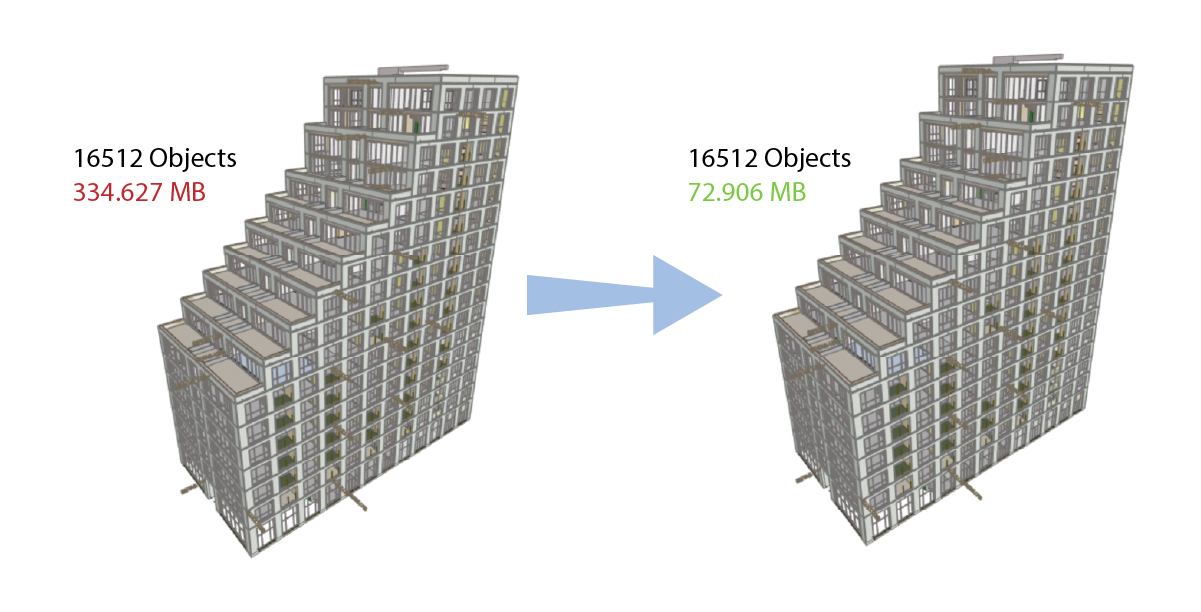
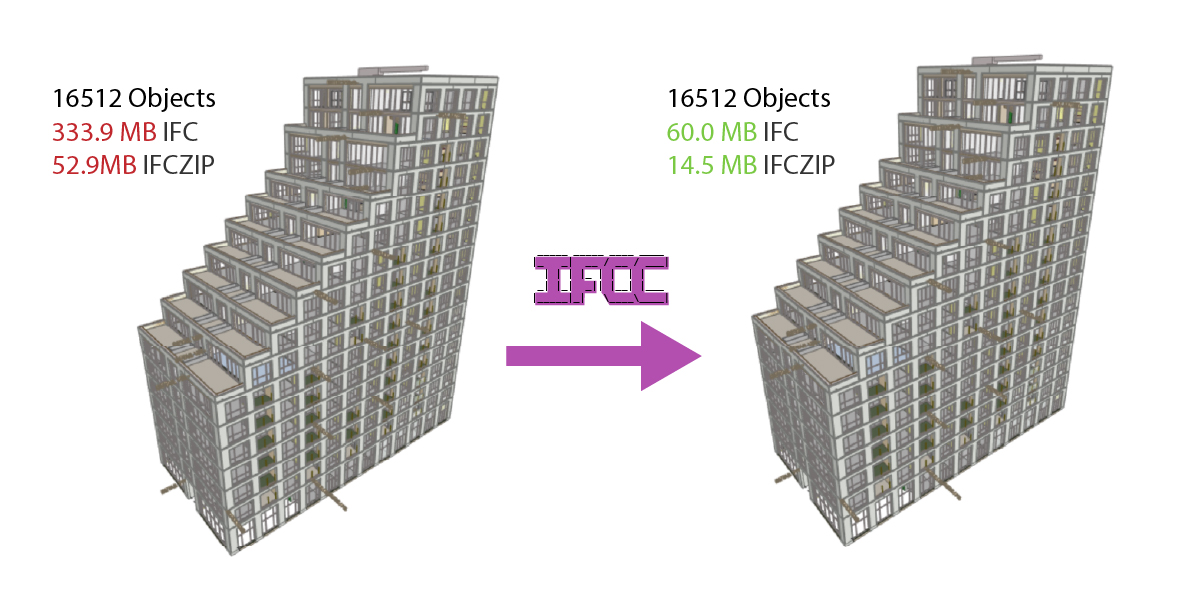
Added IFCZIP output support

Changed region(s): [[0.0308, 0.0908, 0.6162, 0.9378], [0.5545, 0.0908, 0.955, 0.9076], [0.5545, 0.1513, 0.7086, 0.1815]]

diff --git a/IFCC.cpp b/IFCC.cpp
@@ -9,6 +9,12 @@
 #include <unordered_map>
 #include <map>
 #include <string>
+#include <vector>
+
+#include "mz.h"
+#include "mz_strm.h"
+#include "mz_strm_os.h"
+#include "mz_zip.h"
 
 std::vector<std::string> tokenizeString(const std::string& theString, const std::string& delimiters);
 
@@ -357,7 +363,6 @@ void collapseClasses(IfcFile& theFile, int iteration = 1)
 	return;
 }
 
-
 bool recalculateId(IfcFile& theFile, bool restructure)
 {
 	std::cout << "\n[INFO] recalcualating Ids\n";
@@ -425,14 +430,26 @@ bool recalculateId(IfcFile& theFile, bool restructure)
 
 }
 
-bool isValidIfcFile(const std::filesystem::path& filePath)
+bool isValidIfcFile(const std::filesystem::path& filePath, bool isOutputPath = false)
 {
-	if (!std::filesystem::exists(filePath)) { return false; } 
+	if (!isOutputPath)
+	{
+		if (!std::filesystem::exists(filePath)) { return false; }
+	}
 
 	std::string pathExtension = filePath.extension().string();
 	std::transform(pathExtension.begin(), pathExtension.end(), pathExtension.begin(), ::toupper);
-	if (pathExtension != ".IFC") { return false; }
-	return true;
+
+	if (isOutputPath)
+	{
+		if (pathExtension == ".IFCZIP") 
+		{ 
+			return true; 
+		}
+	}
+
+	if (pathExtension == ".IFC") { return true; }
+	return false;
 }
 
 void printDefaultstartInfo() {
@@ -446,8 +463,8 @@ void printDefaultstartInfo() {
 }
 
 void helpOutput() {
-	printDefaultstartInfo();
-	std::cout << "Usage: IFCC.exe 'IFC target path' 'optional IFC output path'\nIf no output filepath is supplied the stem path is used with '_compressed' added";
+	std::cout << "Usage: IFCC.exe 'IFC target path' 'optional IFC output path'\nIf no output filepath is supplied the stem path is used with '_compressed' added\n";
+	//std::cout << "Outputpath can end with .ifc for ifc encoded output and .ifczip for zipped output.\n";
 }
 
 
@@ -486,12 +503,68 @@ bool getUserInput(int argc, char* argv[], std::filesystem::path* filePath, std::
 		std::cout << "Input path is same as output path\n not allowed\n";
 		return false;
 	}
-
 	if (outputPath->string().size() == 0)
 	{
 		*outputPath = filePath->parent_path().string() + "/" + filePath->stem().string() + std::string("_compressed") + filePath->extension().string();
 	}
+	else
+	{
+		if (!isValidIfcFile(*outputPath, true))
+		{
+			std::cout << "invalid IFC output path\nUse --help for readme\n";
+			return false;
+		}
+	}
 	return true;
+}
+
+bool outputIsZip( const std::filesystem::path& outputPath)
+{
+	std::string pathExtension = outputPath.extension().string();
+	std::transform(pathExtension.begin(), pathExtension.end(), pathExtension.begin(), ::toupper);
+	if (pathExtension == ".IFCZIP") { return true; }
+	return false;
+}
+
+void zipFile(const IfcFile& theFile, const std::filesystem::path& outputPath) 
+{
+	void* file_stream = mz_stream_os_create();
+	if (mz_stream_open(file_stream, outputPath.string().c_str(), MZ_OPEN_MODE_CREATE) != MZ_OK) {
+		std::cerr << "Failed to open zip file\n";
+		return ;
+	}
+
+	void* zip_handle = mz_zip_create();
+	mz_zip_open(zip_handle, file_stream, MZ_OPEN_MODE_WRITE);
+
+	std::string fileName = outputPath.stem().string() + std::string(".ifc");
+	std::string fileContent = theFile.dumptoString();
+	int64_t fileSize = static_cast<int64_t>(fileContent.size());
+
+	mz_zip_file file_info = {};
+	file_info.filename = fileName.c_str();
+	file_info.compression_method = MZ_COMPRESS_METHOD_DEFLATE;
+
+	int32_t err = mz_zip_entry_write_open(zip_handle, &file_info, MZ_COMPRESS_LEVEL_BEST, 0, nullptr);
+	if (err != MZ_OK) {
+		std::cerr << "Failed to open zip entry: " << err << std::endl;
+		return;
+	}
+
+	err = mz_zip_entry_write(zip_handle, fileContent.data(), fileSize);
+	if (err != fileSize) {
+		std::cerr << "Failed to write zip entry: " << err << std::endl;
+		return;
+	}
+
+	mz_zip_entry_close(zip_handle);
+	mz_zip_close(zip_handle);
+	mz_zip_delete(&zip_handle);
+
+	mz_stream_close(file_stream);
+	mz_stream_delete(&file_stream);
+
+	return;
 }
 
 
@@ -515,13 +588,19 @@ int main(int argc, char* argv[])
 	collapseClasses(theFile);
 	recalculateId(theFile, true);
 
-	std::ofstream storageFile;
-	storageFile.open(outputPath);
 	std::cout << "\n[INFO] Exporting file " << outputPath.string() << std::endl;
-	storageFile << theFile.dumptoString();
+	if (outputIsZip(outputPath))
+	{
+		zipFile(theFile, outputPath);
+	}
+	else
+	{
+		std::ofstream storageFile;
+		storageFile.open(outputPath);
+		storageFile << theFile.dumptoString();
+		storageFile.close();
+	}
 	std::cout << "[INFO] Exported successfully" << std::endl;
-	storageFile.close();
-
 	return 0;
 }
 

diff --git a/README.md b/README.md
@@ -3,59 +3,83 @@
 <!-- markdownlint-disable MD033 -->
 <!-- markdownlint-disable MD034 -->
 
-IFCC is a simple console application that compresses IFC files. The implemented method is based on the method developed by [(Sun et al., 2016)](#1) but written from scratch and extended. The general processes of the compressor are:
+IFCC is a simple console application that compresses IFC and IFCZIP (from upcoming v0.5.0 onward) files. The tool allows both IFC and IFCZIP output. IFCZIP allows for more compression but will use the IFCZIP encoding which might not be supported by all applications. The general processes of the compressor are:
 
 * Rounding of floating number values to 0.000001 meter if their precision is higher (0.000001 meter still smaller than the width of a human hair).
-* Eliminating redundant data by merging objects that encode identical data. Objects such as IfcCartesianPoint, IfcDirection, and IfcPropertySingleValue. Any object that has a GUID is not touched.
-* Restructuring the order in which objects are stored so that the most referenced objects are placed at the beginning of the file. This reduces the chance of large IDs being repeated often in referenced lists of other objects.
+* Eliminating redundant data by merging objects that encode identical data. Objects such as IfcCartesianPoint, IfcDirection, and IfcPropertySingleValue. Any object that has a GUID is not touched. This sub-process is based on the method developed by [(Sun et al., 2016)](#1) but rewritten from scratch
+* Restructuring the order in which objects are stored so that the most referenced objects are placed at the beginning of the file. This reduces potential bloating due to large IDs being repeated often in referenced lists of other objects.
 * Recalculating object IDs so that the size of both the class IDs and their references are kept at a minimum.
 
 ![overview](./Images/overview.jpg "An example of the difference between a compressed and uncompressed IFC file")
 
-A visual example of the main methodology can be seen below. This model (the [FZK Haus](https://www.ifcwiki.org/index.php?title=KIT_IFC_Examples)) represents a normal IFC file. The model uses multiple IfcQuantityArea objects to encode exactly the same data but for different windows: Area = 2.4 m<sup>2</sup>. All but a single object that encodes this data can be removed without losing data. In even a simple file thousands of these items can be collapsed into a single object. For this model 9830 different objects can be eliminated.
+A visual example of the redundancy removal methodology can be seen below. This model (the [FZK Haus](https://www.ifcwiki.org/index.php?title=KIT_IFC_Examples)) can be considered a representation of a normal IFC file for this case. The model uses multiple IfcQuantityArea objects to encode exactly the same data but for different windows: Area = 2.4 m<sup>2</sup>. All but a single object that encodes this data can be removed without losing data. Even in a simple file thousands of these situations occur which can be collapsed into a small pool of single unique objects. For this particular IFC model 9.830 different data objects can be eliminated.
 
 ![uncompressed relationships](./Images/unCompressedQuan.jpg "An example of uncompressed relationships")
 
 ![Compressed relationships](./Images/CompressedQuan.jpg "An example of compressed relationships")
 
-| IFC file name  | File size (MB) | Compressed file size (MB) | Reduction |
+| IFC file name  | File size (MB) | IFCC compressed IFC file size (MB) | IFCC compressed IFCZIP file size (MB)* |
 |-|-|-|-|
-| [FZK Haus](https://www.ifcwiki.org/index.php?title=KIT_IFC_Examples)  | 2.511  | 1.690  | 32.7% |
-| [Office Building](https://www.ifcwiki.org/index.php?title=KIT_IFC_Examples)  | 10.679 | 2.450 | 77.1% |
-| [Smiley West](https://www.ifcwiki.org/index.php?title=KIT_IFC_Examples)  | 5.967 | 2.303 | 60.4% |
-| [Schependomlaan](https://github.com/jakob-beetz/DataSetSchependomlaan/tree/master) | 63.554 | 18.812 | 70.4% | 
-| [Strijp S architectural - BIM bouwkundig](https://github.com/buildingsmart-community/Community-Sample-Test-Files/tree/main/IFC%202.3.0.1%20(IFC%202x3)/SDK%20-%20S1)  | 334.627 | 60.653 | 81.9% |
+| [FZK Haus](https://www.ifcwiki.org/index.php?title=KIT_IFC_Examples)  | 2.511  | 1.682 (67.0%) | 0.366 (14.6%) |
+| [Office Building](https://www.ifcwiki.org/index.php?title=KIT_IFC_Examples)  | 10.679 | 2.421 (22.7%) | 0.576 (5.3%) |
+| [Smiley West](https://www.ifcwiki.org/index.php?title=KIT_IFC_Examples)  | 5.967 | 2.255 (37.8%) | 0.572 (9.6%) |
+| [Schependomlaan](https://github.com/jakob-beetz/DataSetSchependomlaan/tree/master) | 63.554 | 18.548 (29.2%) | 3.685 (5.8%)| 
+| [Strijp S architectural - BIM bouwkundig](https://github.com/buildingsmart-community/Community-Sample-Test-Files/tree/main/IFC%202.3.0.1%20(IFC%202x3)/SDK%20-%20S1)  | 333.941 | 60.004 (18.0%) | 14.494 (4.3%) |
 
-Compression numbers of some publicly available datasets can be seen in the table above. A reduction of 30% is already a decent score considering how simple the logic of this application is. However, based on these examples the larger the file the more compression is achieved.
+*The IFCZIP files are compressed by IFCC and stored in the IFCZIP encoding (Feature will be added in upcoming v0.5.0).
+
+Compression numbers of some publicly available datasets can be seen in the table above. A reduction of 30% is already a decent score considering how simple the logic of this application is. However, more compression can be achieved even without zipping.
 
 Even the size of Strijp S model of 334MB drops well below the 100MB threshold for the online use of [IfcGref](https://ifcgref.bk.tudelft.nl/). This allows user to properly georeference a model without having to build a local build of IfcGref.
 
 ## How to use
 
-The pre-compiled windows executable can be downloaded from the [releases page](https://github.com/jaspervdv/IFCC/releases). The executable work as a simple console application. It takes 2 input variables: an input path and an optional output path. If only the input path is supplied the tool will store the compressed file at the folder of the input path with the filename being the same except for the addition of "_compressed". It will show the same behavior if in the explorer an IFC file is dragged into the executable.
+The pre-compiled windows executable can be downloaded from the [releases page](https://github.com/jaspervdv/IFCC/releases). The executable works as a simple console application. It takes 2 input variables: an input path and an optional output path. If only the input path is supplied the tool will store the compressed file at the folder of the input path with the filename being the same except for the addition of "_compressed". It will show the same behavior if in the explorer an IFC file is dragged into the executable.
 
-Current supported IFC versions:
+If the output file path ends with .ifc a compressed IFC file will be created. If the output file path ends with .ifczip a compressed IFCZIP file will be created (from upcoming v0.5.0 onward). This is not case sensitive. 
 
-* IFC2x3
-* IFC4
-* IFC4x1
-* IFC4x2
-* IFC4x3
-* IFC4x3 ADD2
-
-Unlike the [IfcEnvelopeExtractor](https://github.com/tudelft3d/IFC_BuildingEnvExtractor) the single executable can process all supported IFC versions.
+Unlike earlier developed IFC related projects by me (such as the [IfcEnvelopeExtractor](https://github.com/tudelft3d/IFC_BuildingEnvExtractor)) the single IFCC executable can process all IFC versions.
 
 ## How to build
 
-Recent versions of the code do not rely on any library except for the standard ones. This will make local compiling easier.
+The code is supplied with a CMakeLists.txt file that will handle all the downloads and dependencies. Cmake can behave slightly feeble and manual configuration might be required.
 
-Old versions of the code are depended on [IfcOpenShell 0.7](http://ifcopenshell.org/) and [Boost](https://www.boost.org/).
+The only 3rd party library IFCC relies on is the [minizip](https://github.com/zlib-ng/minizip-ng) library.
 
 ## Future development
 
-Currently the application always does a full compression. In the future options will be added to exclude and finetune certain processes.
+Currently the application always does a full compression. In the future options will be added to exclude and fine tune certain processes.
 
-At this moment this tool only looks at a small cluster of class objects. Potentially it would be interesting to see how much extra compression could be achieved if similar identical geometric objects could be merged to single objects with different translations.
+At this moment IFCC processes the file as a (almost) flat text file. It would be interesting to see how much extra compression could be achieved with more complex comparisons. For example, similar identically shaped geometric objects could be stored as single objects with different transformations. This is a complex task and might slow the tool down significantly, so its usefulness has to evaluated. 
+
+## FAQ
+
+**What is the difference between IFCC processed IFC files and normal IFCZIP files?**
+
+IFCC achieves compression by restructuring an IFC file and removing redundant data. Zipping an IFC file reduces the size of an IFC file by changing the encoding. In general IFCZIP files are smaller than IFCC processed IFC files. However, IFCZIP is not supported by all the applications that do support IFC files. IFCC does also support IFCZIP file output (from upcoming v0.5.0 onward). This combines the processes of IFCC and ZIP for even further file size reductions. An IFCC created IFCZIP file will occupy noticeably less memory than a "normal" IFCZIP files. Some examples can be seen below.
+
+| IFC file name  | File size (MB) | Compressed IFCZIP file size (MB) | IFCC compressed IFCZIP file size (MB) |
+|-|-|-|-|
+| [FZK Haus](https://www.ifcwiki.org/index.php?title=KIT_IFC_Examples)  | 2.511  | 0.415 (16.5%) | 0.366 (14.6%) |
+| [Office Building](https://www.ifcwiki.org/index.php?title=KIT_IFC_Examples)  | 10.679 | 1.469 (13.8%) | 0.576 (5.3%) |
+| [Smiley West](https://www.ifcwiki.org/index.php?title=KIT_IFC_Examples)  | 5.967 | 1.097 (18.4%) | 0.572 (9.6%) |
+| [Schependomlaan](https://github.com/jakob-beetz/DataSetSchependomlaan/tree/master) | 63.554 | 8.048 (12.7%) | 3.685 (5.8%)| 
+| [Strijp S architectural - BIM bouwkundig](https://github.com/buildingsmart-community/Community-Sample-Test-Files/tree/main/IFC%202.3.0.1%20(IFC%202x3)/SDK%20-%20S1)  | 333.941 | 52.883 (15.8%) | 14.494 (4.3%) |
+
+**The application I want to open an IFCZIP file in does not support IFCZIP, what now?**
+
+IFCZIP is just a ZIP archive but with a custom .IFCZIP extension. Changing the extension name from .IFCZIP to .ZIP or opening the .IFCZIP file with a file archiver (such as 7ZIP, WinRaR, or WinZip) will allow you to access the unzipped IFC file.
+
+**Is compression done with IFCC lossless?**
+
+Almost, but the tool steps trough a couple of processes:
+
+* Rounding of the float numbers: Lossy
+* Eliminating redundant data: Lossless in most cases*
+* Restructuring of the file: Lossless
+* Recalculating object IDs: Lossless
+
+*IFC contains many repeating data objects that can usually be eliminated without the effective loss of data. This process can, in theory, be reversed. However, if objects were linked via their object relationships, so that if one is updated a group of linked objects is also updated with the same change, IFCC compression will break that. This way of linking is however something that is not often done in practice, and I also never encountered aside from theories.
 
 ## References
 
